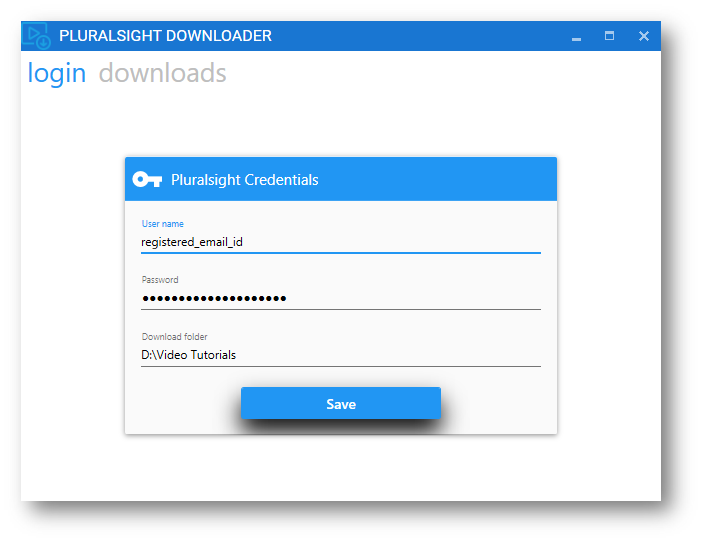
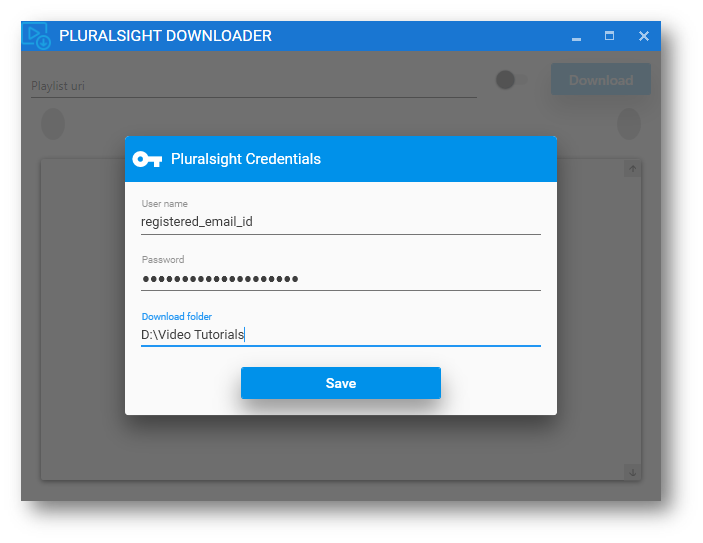
Login dialog at startup

diff --git a/PluralsightDownloader/MainWindow.xaml b/PluralsightDownloader/MainWindow.xaml
@@ -11,166 +11,166 @@
                       Height="480"
                       Icon="Resources/Movie Download-WF.ico"
                       WindowStartupLocation="CenterScreen"
+                      WindowState="Maximized"
                       mc:Ignorable="d">
-    <Grid>
-        <TabControl>
-            <TabItem Header="login">
-                <GroupBox HorizontalAlignment="Center"
-                          VerticalAlignment="Center"
-                          Header="Pluralsight Credentials"
-                          Style="{DynamicResource MaterialDesignCardGroupBox}">
-                    <GroupBox.HeaderTemplate>
-                        <DataTemplate>
-                            <StackPanel Orientation="Horizontal">
-                                <materialDesign:PackIcon Width="32"
-                                                         Height="32"
-                                                         VerticalAlignment="Center"
-                                                         Kind="Key" />
-                                <TextBlock Margin="8,0,0,0"
-                                           VerticalAlignment="Center"
-                                           Style="{StaticResource MaterialDesignSubheadingTextBlock}"
-                                           Text="{Binding}" />
-                            </StackPanel>
-                        </DataTemplate>
-                    </GroupBox.HeaderTemplate>
-                    <StackPanel HorizontalAlignment="Center" Orientation="Vertical">
-                        <TextBox Name="UserNameTextbox"
+    <materialDesign:DialogHost Name="DialogHost"
+                               HorizontalAlignment="Stretch"
+                               VerticalAlignment="Stretch">
+        <materialDesign:DialogHost.DialogContent>
+            <GroupBox HorizontalAlignment="Center"
+                      VerticalAlignment="Center"
+                      materialDesign:ColorZoneAssist.Mode="Accent"
+                      Header="Pluralsight Credentials"
+                      Style="{DynamicResource MaterialDesignCardGroupBox}">
+                <GroupBox.HeaderTemplate>
+                    <DataTemplate>
+                        <StackPanel Orientation="Horizontal">
+                            <materialDesign:PackIcon Width="32"
+                                                     Height="32"
+                                                     VerticalAlignment="Center"
+                                                     Kind="Key" />
+                            <TextBlock Margin="8"
+                                       VerticalAlignment="Center"
+                                       Style="{StaticResource MaterialDesignSubheadingTextBlock}"
+                                       Text="{Binding}" />
+                        </StackPanel>
+                    </DataTemplate>
+                </GroupBox.HeaderTemplate>
+                <StackPanel HorizontalAlignment="Center" Orientation="Vertical">
+                    <TextBox Name="UserNameTextbox"
+                             Width="400"
+                             Margin="10"
+                             materialDesign:HintAssist.Hint="User name"
+                             Style="{StaticResource MaterialDesignFloatingHintTextBox}" />
+                    <PasswordBox Name="PasswordBox"
                                  Width="400"
                                  Margin="10"
-                                 materialDesign:HintAssist.Hint="User name"
-                                 Style="{StaticResource MaterialDesignFloatingHintTextBox}" />
-                        <PasswordBox Name="PasswordBox"
-                                     Width="400"
-                                     Margin="10"
-                                     materialDesign:HintAssist.Hint="Password"
-                                     Style="{StaticResource MaterialDesignFloatingHintPasswordBox}" />
-                        <TextBox Name="DownloadTextbox"
-                                 Width="400"
-                                 Margin="10"
-                                 materialDesign:HintAssist.Hint="Download folder"
-                                 Style="{StaticResource MaterialDesignFloatingHintTextBox}" />
-                        <Button Name="SaveConfigButton"
-                                Width="200"
-                                Margin="10"
-                                materialDesign:ShadowAssist.ShadowDepth="Depth5"
-                                Click="SaveConfigButton_OnClick"
-                                Content="Save"
-                                Style="{DynamicResource MaterialDesignRaisedButton}" />
-                    </StackPanel>
-                </GroupBox>
-            </TabItem>
-            <TabItem Header="downloads">
-                <Grid>
-                    <Grid.RowDefinitions>
-                        <RowDefinition Height="Auto" />
-                        <RowDefinition Height="Auto" />
-                        <RowDefinition Height="*" />
-                    </Grid.RowDefinitions>
-                    <Grid>
-                        <Grid.ColumnDefinitions>
-                            <ColumnDefinition Width="*" />
-                            <ColumnDefinition Width="Auto" />
-                            <ColumnDefinition Width="Auto" />
-                        </Grid.ColumnDefinitions>
-                        <TextBox Name="PlaulistUrlTextbox"
-                                 Grid.Column="0"
-                                 Margin="10"
+                                 materialDesign:HintAssist.Hint="Password"
+                                 Style="{StaticResource MaterialDesignFloatingHintPasswordBox}" />
+                    <TextBox Name="DownloadTextbox"
+                             Width="400"
+                             Margin="10"
+                             materialDesign:HintAssist.Hint="Download folder"
+                             Style="{StaticResource MaterialDesignFloatingHintTextBox}" />
+                    <Button Name="SaveConfigButton"
+                            Width="200"
+                            Margin="10"
+                            materialDesign:ShadowAssist.ShadowDepth="Depth5"
+                            Click="SaveConfigButton_OnClick"
+                            Content="Save"
+                            Style="{DynamicResource MaterialDesignRaisedAccentButton}" />
+                </StackPanel>
+            </GroupBox>
+        </materialDesign:DialogHost.DialogContent>
+        <Grid>
+            <Grid.RowDefinitions>
+                <RowDefinition Height="Auto" />
+                <RowDefinition Height="Auto" />
+                <RowDefinition Height="*" />
+            </Grid.RowDefinitions>
+            <Grid>
+                <Grid.ColumnDefinitions>
+                    <ColumnDefinition Width="*" />
+                    <ColumnDefinition Width="Auto" />
+                    <ColumnDefinition Width="Auto" />
+                </Grid.ColumnDefinitions>
+                <TextBox Name="PlaulistUrlTextbox"
+                         Grid.Column="0"
+                         Margin="10"
+                         VerticalAlignment="Center"
+                         materialDesign:HintAssist.Hint="Playlist uri"
+                         Style="{StaticResource MaterialDesignFloatingHintTextBox}" />
+                <ToggleButton Name="ShutdownToggleSwitch"
+                              Grid.Column="1"
+                              Margin="10"
+                              VerticalAlignment="Center"
+                              Content="shutdown"
+                              Style="{StaticResource MaterialDesignSwitchAccentToggleButton}"
+                              ToolTip="shutdown" />
+                <Button Name="DownloadButton"
+                        Grid.Column="2"
+                        Width="100"
+                        Margin="10"
+                        VerticalAlignment="Center"
+                        materialDesign:ShadowAssist.ShadowDepth="Depth5"
+                        Click="DownloadButton_OnClick"
+                        Content="Download"
+                        Style="{DynamicResource MaterialDesignRaisedAccentButton}" />
+            </Grid>
+            <TextBlock Name="CourseTitleLabel"
+                       Grid.Row="1"
+                       HorizontalAlignment="Center"
+                       VerticalAlignment="Center"
+                       Style="{StaticResource MaterialDesignHeadlineTextBlock}" />
+            <materialDesign:Chip Name="ElapsedChip"
+                                 Grid.Row="1"
+                                 Margin="20,0"
+                                 HorizontalAlignment="Left"
                                  VerticalAlignment="Center"
-                                 materialDesign:HintAssist.Hint="Playlist uri"
-                                 Style="{StaticResource MaterialDesignFloatingHintTextBox}" />
-                        <ToggleButton Name="ShutdownToggleSwitch"
-                                      Grid.Column="1"
-                                      Margin="10"
-                                      VerticalAlignment="Center"
-                                      Content="shutdown"
-                                      Style="{StaticResource MaterialDesignSwitchToggleButton}"
-                                      ToolTip="shutdown" />
-                        <Button Name="DownloadButton"
-                                Grid.Column="2"
-                                Width="100"
-                                Margin="10"
-                                VerticalAlignment="Center"
-                                materialDesign:ShadowAssist.ShadowDepth="Depth5"
-                                Click="DownloadButton_OnClick"
-                                Content="Download"
-                                Style="{DynamicResource MaterialDesignRaisedButton}" />
-                    </Grid>
-                    <TextBlock Name="CourseTitleLabel"
-                               Grid.Row="1"
-                               HorizontalAlignment="Center"
-                               VerticalAlignment="Center"
-                               Style="{StaticResource MaterialDesignHeadlineTextBlock}" />
-                    <materialDesign:Chip Name="ElapsedChip"
-                                         Grid.Row="1"
-                                         Margin="20,0"
-                                         HorizontalAlignment="Left"
-                                         VerticalAlignment="Center"
-                                         IsDeletable="False" />
-                    <materialDesign:Chip Name="ETAChip"
-                                         Grid.Row="1"
-                                         Margin="20,0"
-                                         HorizontalAlignment="Right"
-                                         VerticalAlignment="Center"
-                                         IsDeletable="False" />
-                    <materialDesign:Card Grid.Row="2"
-                                         Margin="10"
-                                         VerticalAlignment="Stretch">
-                        <ScrollViewer>
-                            <ItemsControl Name="PlaylistDisplay">
-                                <ItemsControl.ItemTemplate>
-                                    <DataTemplate>
-                                        <StackPanel Orientation="Vertical">
-                                            <Expander IsExpanded="{Binding Key.Downloaded}">
-                                                <Expander.Header>
-                                                    <StackPanel Orientation="Horizontal">
+                                 IsDeletable="False" />
+            <materialDesign:Chip Name="ETAChip"
+                                 Grid.Row="1"
+                                 Margin="20,0"
+                                 HorizontalAlignment="Right"
+                                 VerticalAlignment="Center"
+                                 IsDeletable="False" />
+            <materialDesign:Card Grid.Row="2"
+                                 Margin="10"
+                                 VerticalAlignment="Stretch">
+                <ScrollViewer>
+                    <ItemsControl Name="PlaylistDisplay">
+                        <ItemsControl.ItemTemplate>
+                            <DataTemplate>
+                                <StackPanel Orientation="Vertical">
+                                    <Expander IsExpanded="{Binding Key.Downloaded}">
+                                        <Expander.Header>
+                                            <StackPanel Orientation="Horizontal">
+                                                <materialDesign:Chip VerticalAlignment="Center"
+                                                                     Content="{Binding Key.WaitTime,
+                                                                                       Converter={StaticResource TimeDisplayConverter}}"
+                                                                     IsDeletable="False" />
+                                                <Button VerticalAlignment="Center"
+                                                        Click="CategoryButton_Click"
+                                                        Content="{Binding Key.Category}"
+                                                        Style="{StaticResource MaterialDesignFlatButton}" />
+                                            </StackPanel>
+                                        </Expander.Header>
+                                        <ListBox Margin="20" ItemsSource="{Binding Value}">
+                                            <ListBox.ItemTemplate>
+                                                <DataTemplate>
+                                                    <Grid>
+                                                        <Grid.ColumnDefinitions>
+                                                            <ColumnDefinition Width="Auto" />
+                                                            <ColumnDefinition Width="*" />
+                                                        </Grid.ColumnDefinitions>
                                                         <materialDesign:Chip VerticalAlignment="Center"
-                                                                             Content="{Binding Key.WaitTime,
+                                                                             Content="{Binding WaitTime,
                                                                                                Converter={StaticResource TimeDisplayConverter}}"
-                                                                             IsDeletable="False" />
-                                                        <Button VerticalAlignment="Center"
-                                                                Click="CategoryButton_Click"
-                                                                Content="{Binding Key.Category}"
-                                                                Style="{StaticResource MaterialDesignFlatButton}" />
-                                                    </StackPanel>
-                                                </Expander.Header>
-                                                <ListBox Margin="20" ItemsSource="{Binding Value}">
-                                                    <ListBox.ItemTemplate>
-                                                        <DataTemplate>
-                                                            <Grid>
-                                                                <Grid.ColumnDefinitions>
-                                                                    <ColumnDefinition Width="Auto" />
-                                                                    <ColumnDefinition Width="*" />
-                                                                </Grid.ColumnDefinitions>
-                                                                <materialDesign:Chip VerticalAlignment="Center"
-                                                                                     Content="{Binding WaitTime,
-                                                                                                       Converter={StaticResource TimeDisplayConverter}}"
-                                                                                     IsDeletable="False">
-                                                                    <materialDesign:Chip.Icon>
-                                                                        <materialDesign:PackIcon Kind="{Binding Downloaded, Converter={StaticResource DownloadStatusConverter}}" />
-                                                                    </materialDesign:Chip.Icon>
-                                                                </materialDesign:Chip>
-                                                                <TextBlock Grid.Column="1"
-                                                                           HorizontalAlignment="Left"
-                                                                           VerticalAlignment="Center"
-                                                                           Style="{StaticResource MaterialDesignBody2TextBlock}"
-                                                                           Text="{Binding Name}" />
-                                                            </Grid>
-                                                        </DataTemplate>
-                                                    </ListBox.ItemTemplate>
-                                                </ListBox>
-                                            </Expander>
-                                            <Border Height="1"
-                                                    HorizontalAlignment="Stretch"
-                                                    Background="{DynamicResource MaterialDesignDivider}"
-                                                    SnapsToDevicePixels="True" />
-                                        </StackPanel>
-                                    </DataTemplate>
-                                </ItemsControl.ItemTemplate>
-                            </ItemsControl>
-                        </ScrollViewer>
-                    </materialDesign:Card>
-                </Grid>
-            </TabItem>
-        </TabControl>
-    </Grid>
+                                                                             IsDeletable="False">
+                                                            <materialDesign:Chip.Icon>
+                                                                <materialDesign:PackIcon Kind="{Binding Downloaded, Converter={StaticResource DownloadStatusConverter}}" />
+                                                            </materialDesign:Chip.Icon>
+                                                        </materialDesign:Chip>
+                                                        <TextBlock Grid.Column="1"
+                                                                   HorizontalAlignment="Left"
+                                                                   VerticalAlignment="Center"
+                                                                   Style="{StaticResource MaterialDesignBody2TextBlock}"
+                                                                   Text="{Binding Name}" />
+                                                    </Grid>
+                                                </DataTemplate>
+                                            </ListBox.ItemTemplate>
+                                        </ListBox>
+                                    </Expander>
+                                    <Border Height="1"
+                                            HorizontalAlignment="Stretch"
+                                            Background="{DynamicResource MaterialDesignDivider}"
+                                            SnapsToDevicePixels="True" />
+                                </StackPanel>
+                            </DataTemplate>
+                        </ItemsControl.ItemTemplate>
+                    </ItemsControl>
+                </ScrollViewer>
+            </materialDesign:Card>
+        </Grid>
+    </materialDesign:DialogHost>
 </Controls:MetroWindow>

diff --git a/PluralsightDownloader/App.xaml b/PluralsightDownloader/App.xaml
@@ -18,7 +18,7 @@
                 <ResourceDictionary Source="pack://application:,,,/MaterialDesignThemes.Wpf;component/Themes/MaterialDesignTheme.Light.xaml" />
                 <ResourceDictionary Source="pack://application:,,,/MaterialDesignThemes.Wpf;component/Themes/MaterialDesignTheme.Defaults.xaml" />
                 <ResourceDictionary Source="pack://application:,,,/MaterialDesignColors;component/Themes/Recommended/Primary/MaterialDesignColor.Blue.xaml" />
-                <ResourceDictionary Source="pack://application:,,,/MaterialDesignColors;component/Themes/Recommended/Accent/MaterialDesignColor.Blue.xaml" />
+                <ResourceDictionary Source="pack://application:,,,/MaterialDesignColors;component/Themes/Recommended/Accent/MaterialDesignColor.LightBlue.xaml" />
 
                 <!--  Material Design: MahApps Compatibility  -->
                 <ResourceDictionary Source="pack://application:,,,/MaterialDesignThemes.MahApps;component/Themes/MaterialDesignTheme.MahApps.Fonts.xaml" />

diff --git a/PluralsightDownloader/MainWindow.xaml.cs b/PluralsightDownloader/MainWindow.xaml.cs
@@ -9,15 +9,13 @@
     using System.Threading;
     using System.Threading.Tasks;
     using System.Windows;
+    using System.Windows.Controls;
 
+    using Helpers;
     using HtmlAgilityPack;
-
     using MahApps.Metro.Controls;
-
     using Models;
 
-    using PluralsightDownloader.Helpers;
-    using System.Windows.Controls;
 
     public partial class MainWindow : MetroWindow
     {
@@ -25,7 +23,10 @@
         {
             this.InitializeComponent();
             this.Loaded += (sender, args) =>
-                { this.LoadSettings(); };
+                {
+                    this.LoadSettings();
+                    this.DialogHost.IsOpen = true;
+                };
         }
 
         private async void DownloadButton_OnClick(object sender, RoutedEventArgs e)
@@ -39,6 +40,7 @@
             Properties.Settings.Default.Password = this.PasswordBox.Password;
             Properties.Settings.Default.Downloads = this.DownloadTextbox.Text;
             Properties.Settings.Default.Save();
+            this.DialogHost.IsOpen = false;
         }
 
         private async void DownloadCourse()
